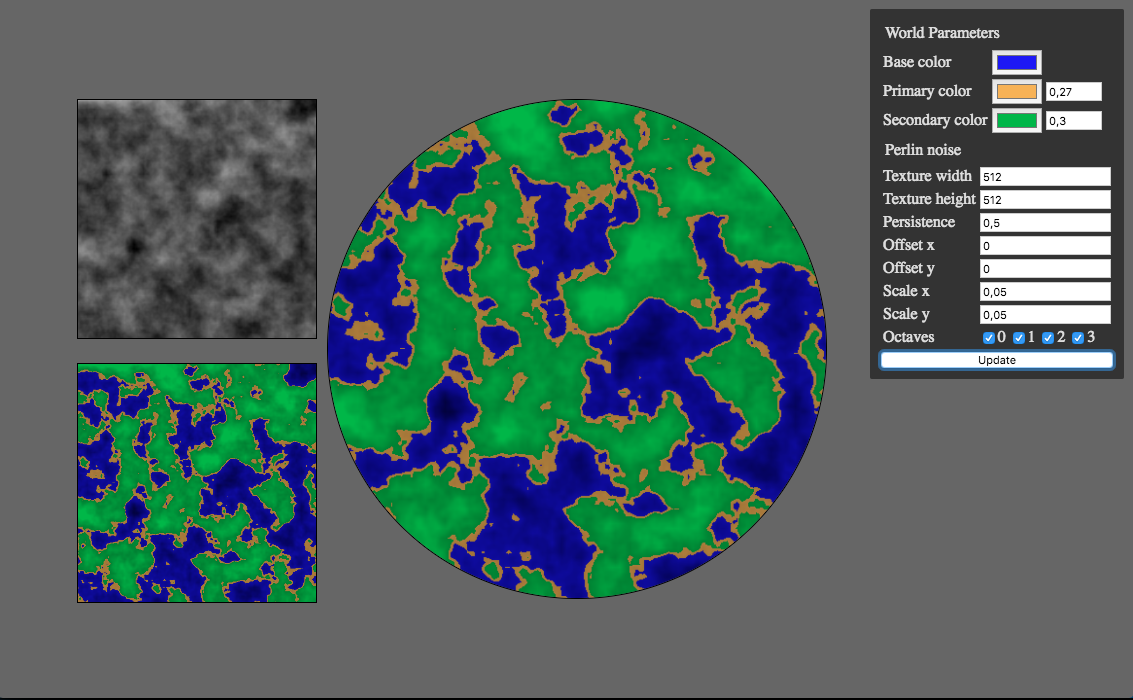
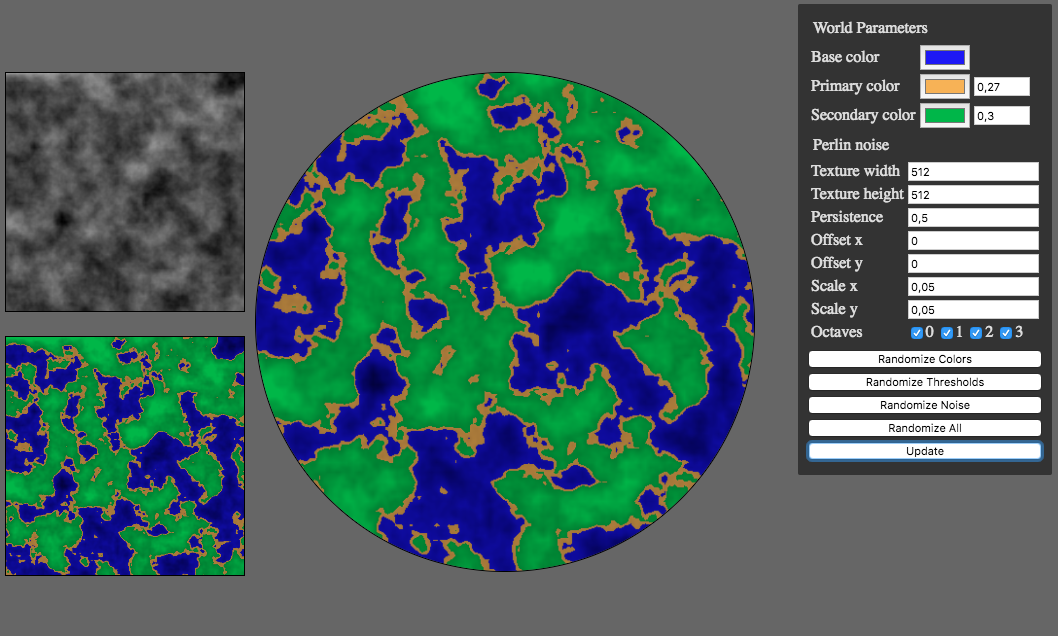
Add randomize feature

diff --git a/main.js b/main.js
@@ -41,13 +41,86 @@ function init()
     {
         updateParameters();
         update();
-        // setImageFromCanvas(canvasController.canvas, map);
+    });
+
+    let randomizeAllButton = document.getElementById("randomize-all-button");
+    randomizeAllButton.addEventListener("click", ()=>
+    {
+        randomizeAll();
+        updateParameters();
+        update();
+    });
+
+    let randomizeNoiseButton = document.getElementById("randomize-noise-button");
+    randomizeNoiseButton.addEventListener("click", ()=>
+    {
+        randomizeNoise();
+        updateParameters();
+        update();
+    });
+
+    let randomizeThresholdsButton = document.getElementById("randomize-thresholds-button");
+    randomizeThresholdsButton.addEventListener("click", ()=>
+    {
+        randomizeThresholds();
+        updateParameters();
+        update();
+    });
+
+    let randomizeColorsButton = document.getElementById("randomize-colors-button");
+    randomizeColorsButton.addEventListener("click", ()=>
+    {
+        randomizeColors();
+        updateParameters();
+        update();
     });
 }
 
 function setImageFromCanvas(canvas, image)
 {
     image.src = canvas.toDataURL();
+}
+
+function random (min, max)
+{
+    return min + (max-min) * Math.random();
+}
+
+function randomizeNoise()
+{
+    document.getElementById("persistence-input").value = random(0.4, 0.6) ;
+    document.getElementById("offsetx-input").value = random(0, 200);
+    document.getElementById("offsety-input").value = random(0, 200);
+    document.getElementById("scalex-input").value = random(0.01, 0.1);
+    document.getElementById("scaley-input").value = random(0.01, 0.1);
+}
+function randomizeThresholds()
+{
+    let firstThreshold = random(0.1, 0.4);
+    let diff = random(0.01, 0.2);
+    document.getElementById("second-threshold").value = firstThreshold;
+    document.getElementById("third-threshold").value = firstThreshold + diff;
+}
+
+function randomizeColors()
+{
+    let getRandomColor = () =>
+    {
+        let hsb = {h: Math.random(), s: 0.8, b: 0.8, a: 1.0};
+        let rgb = Hsb2Rgb(hsb); 
+        return  rgbToHex(rgb.r, rgb.g, rgb.b);
+    }
+    
+    document.getElementById("first-color").value = getRandomColor();
+    document.getElementById("second-color").value= getRandomColor();
+    document.getElementById("third-color").value = getRandomColor();
+}
+
+function randomizeAll()
+{
+    randomizeNoise();
+    randomizeThresholds();
+    randomizeColors();    
 }
 
 function updateParameters()
@@ -89,9 +162,7 @@ function updateParameters()
 
     let threshold1 = document.getElementById("second-threshold").value;
     let threshold2 = document.getElementById("third-threshold").value;
-    thresholds = [threshold1, threshold2]
-
-    console.log(colors);
+    thresholds = [threshold1, threshold2];
 
     octaves = newOctaves;
 }
@@ -132,9 +203,6 @@ function update()
     noiseContext.putImageData(noiseImage,0,0);
 
     // World
-
-
-   console.log(thresholds);
     let mapImage = mapContext.createImageData(w, h);
     worldGenerator.generateToTexture(noiseData, thresholds, colors, mapImage, w, h);
     mapContext.putImageData(mapImage, 0, 0);

diff --git a/utils.js b/utils.js
@@ -1,0 +1,88 @@
+"use strict";
+
+function hexToRgb(hex) 
+{
+    var result = /^#?([a-f\d]{2})([a-f\d]{2})([a-f\d]{2})$/i.exec(hex);
+    return result ? 
+    {
+        r: parseInt(result[1], 16),
+        g: parseInt(result[2], 16),
+        b: parseInt(result[3], 16)
+    } : null;
+}
+
+function rgbToHex(r, g, b) 
+{
+    return "#" + ((1 << 24) + (r << 16) + (g << 8) + b).toString(16).slice(1);
+}
+
+function Hsb2Rgb(hsbColor)
+{
+    let r = hsbColor.b;
+    let g = hsbColor.b;
+    let b = hsbColor.b;
+    if (hsbColor.s != 0)
+    {
+        let max = hsbColor.b;
+        let dif = hsbColor.b * hsbColor.s;
+        let min = hsbColor.b - dif;
+        
+        let h = hsbColor.h * 360;
+        
+        if (h < 60)
+        {
+            r = max;
+            g = h * dif / 60 + min;
+            b = min;
+        }
+        else if (h < 120)
+        {
+            r = -(h - 120) * dif / 60 + min;
+            g = max;
+            b = min;
+        }
+        else if (h < 180)
+        {
+            r = min;
+            g = max;
+            b = (h - 120) * dif / 60 + min;
+        }
+        else if (h < 240)
+        {
+            r = min;
+            g = -(h - 240) * dif / 60 + min;
+            b = max;
+        }
+        else if (h < 300)
+        {
+            r = (h - 240) * dif / 60 + min;
+            g = min;
+            b = max;
+        }
+        else if (h <= 360)
+        {
+            r = max;
+            g = min;
+            b = -(h - 360) * dif / 60 + min;
+        }
+        else
+        {
+            r = 0;
+            g = 0;
+            b = 0;
+        }
+    }
+    
+    r = r >= 1 ? 1: r;
+    g = g >= 1 ? 1: g;
+    b = b >= 1 ? 1: b;
+
+    r = r <= 0 ? 0: r;
+    g = g <= 0 ? 0: g;
+    b = b <= 0 ? 0: b;
+
+    return {r: parseInt(r*255),
+            g: parseInt(g*255),
+            b: parseInt(b*255),
+            a: hsbColor.a};
+}

diff --git a/index.html b/index.html
@@ -4,6 +4,7 @@
 		<title>Carthography Generator</title>
 		<meta http-equiv="X-UA-Compatible" content="IE=edge" />
 		<meta charset="utf-8" />
+		<script type="text/javascript" src="utils.js" ></script>
 		<script type="text/javascript" src="perlinnoise.js" ></script>
 		<script type="text/javascript" src="cartographicgenerator.js" ></script>
 		<script type="text/javascript" src="main.js" ></script>
@@ -88,8 +89,11 @@
 				</tr>
 
 			</table>
-			
-			<input type="button" id="update-button" value="Update" width="100%">
+			<input type="button" id="randomize-colors-button" class="action-button" value="Randomize Colors" >
+			<input type="button" id="randomize-thresholds-button" class="action-button" value="Randomize Thresholds" >
+			<input type="button" id="randomize-noise-button" class="action-button" value="Randomize Noise" >
+			<input type="button" id="randomize-all-button" class="action-button" value="Randomize All" >
+			<input type="button" id="update-button" class="action-button" value="Update" >
 		</div>
 	</body>
 </html>

diff --git a/cartographicgenerator.js b/cartographicgenerator.js
@@ -2,16 +2,6 @@
 
 function CarthographicGenerator()
 {
-    var hexToRgb = function(hex) 
-	{
-		var result = /^#?([a-f\d]{2})([a-f\d]{2})([a-f\d]{2})$/i.exec(hex);
-		return result ? 
-		{
-			r: parseInt(result[1], 16),
-			g: parseInt(result[2], 16),
-			b: parseInt(result[3], 16)
-		} : null;
-    }
     
     this.generateToTexture = function(noiseData, thresholds, colors, img, w, h)
     {

diff --git a/style.css b/style.css
@@ -65,9 +65,11 @@
 	margin: 5px;
 }
 
-#update-button
+.action-button
 {
+	margin: 5px 0;
 	width: 100%;
+	display: block;
 }
 
 .threshold
